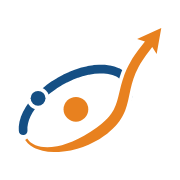
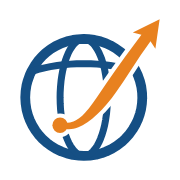
Site da ExpertBR: o logotipo aprovado é o "Rumo", não o "Órbita" (correção do Francis às 12h26, 20/11)
- Topo, rodapé, raiz (claro e escuro), favicon, apple-touch-icon, logo.png e og.png com o Rumo: globo de linhas azul,
  o ponto laranja no sul (o Brasil) e a fita laranja que corta o globo e termina em seta.
- Favicon (16 a 32 px): anel e meridiano em traço grosso (o paralelo sai), ponto e seta maiores. A versão pequena da
  rodada 2 (só o anel com a seta) perdia o globo e lembrava o símbolo do masculino.
- ferramentas/marca (rumo e rumo_favicon), imagens.py e a seção "Logotipo" do LEIAME atualizados.

Claude-Session: https://claude.ai/code/session_012MWRovwiVF1zj1fQCUZE4c

Changed region(s): [[0.0833, 0.1111, 0.9167, 0.9167]]

diff --git a/sites/expertbr/src/Pagina.jsx b/sites/expertbr/src/Pagina.jsx
@@ -17,10 +17,10 @@ function ComDestaque({ texto }) {
     return partes.map((parte, n) => (n % 2 ? <em key={n}>{parte}</em> : parte));
 }
 
-// Logotipo da ExpertBR ("Órbita", aprovado pelo Francis em 20/11/2026; desenho em ferramentas/marca). Uma imagem
+// Logotipo da ExpertBR ("Rumo", aprovado pelo Francis em 20/11/2026; desenho em ferramentas/marca). Uma imagem
 // para cada tema: o CSS mostra a do tema da página (.so-claro / .so-escuro), e sem JavaScript fica a do claro, como o
 // resto da página. O nome continua no texto alternativo. Tamanho pelo CSS (.marca-logo--<onde>).
-const LOGO = { largura: 155, altura: 36 }; // proporção do desenho (4,31 : 1)
+const LOGO = { largura: 150, altura: 36 }; // proporção do desenho (4,15 : 1)
 
 export function Marca({ onde = 'topo' }) {
     return (

diff --git a/sites/expertbr/ferramentas/marca/simbolos.py b/sites/expertbr/ferramentas/marca/simbolos.py
@@ -1,16 +1,15 @@
-"""Símbolo da ExpertBR, "Órbita" (aprovado pelo Francis em 20/11/2026, 11h45), desenhado em coordenadas numa
-caixa de 240 x 240.
+"""Símbolo da ExpertBR, "Rumo" (aprovado pelo Francis em 20/11/2026; confirmado com print às 12h26), desenhado em
+coordenadas numa caixa de 240 x 240.
 
 Mesma família do símbolo do ObraFácil: linha aberta, sem placa, duas cores, a fita laranja afinada nas pontas que
-sobe e termina em seta, e a linha azul interrompida onde a fita e os pontos passam.
+sobe e termina em seta, e as linhas azuis interrompidas onde a fita passa.
 
-- O centro laranja: a origem (o Brasil, o "BR").
-- A órbita inclinada: a família de apps em volta; o ponto azul é um app em órbita.
-- A frente da órbita escapa para cima em seta: o crescimento.
+- O globo de linhas azul: o mundo (os apps são para o mundo inteiro, em 29 idiomas).
+- O ponto laranja no hemisfério sul: o Brasil, de onde a marca sai (o "BR").
+- A fita laranja que sai do ponto, corta o globo e termina em seta: o rumo, o crescimento.
 
-Duas versões: `orbita` (a aprovada, para tamanhos a partir de uns 40 px) e `orbita_favicon` (16 a 32 px: o mesmo
-desenho com traço grosso, o ponto azul maior e separado da linha, a órbita aberta e a seta maior; em 32 px a versão
-anterior, com a órbita fechada e o ponto no meio, lembrava um olho).
+Duas versões: `rumo` (a aprovada, para tamanhos a partir de uns 40 px) e `rumo_favicon` (16 a 32 px: o mesmo desenho
+com traço grosso, só o meridiano dentro do globo, o ponto do Brasil maior e a seta maior; ver a função).
 """
 import math
 
@@ -162,53 +161,43 @@ class Desenho:
                 f'<g fill="{cores["acento"]}">{laranjas}</g>{circ}')
 
 
-CX, CY, ROT = 108, 134, math.radians(-30)
+def circulo(cx, cy, rx, ry, n=240):
+    """Pontos de uma volta fechada (círculo ou elipse em pé)."""
+    pts = [(cx + rx * math.cos(2 * math.pi * k / n), cy + ry * math.sin(2 * math.pi * k / n)) for k in range(n + 1)]
+    return pts + [pts[1]]
 
 
-def _frente_e_saida(rx, ry, fim):
-    """A frente da órbita (laranja): do extremo esquerdo, por baixo, até a direita; dali escapa para cima."""
-    a_ini, a_fim = 178, 76
-    frente = [_elipse(CX, CY, rx, ry, ROT, math.radians(a_ini - (a_ini - a_fim) * k / 90)) for k in range(91)]
-    p0 = frente[-1]
-    p1 = _elipse(CX, CY, rx, ry, ROT, math.radians(a_fim - 1))
-    tx, ty = p1[0] - p0[0], p1[1] - p0[1]
-    L = math.hypot(tx, ty)
-    tx, ty = tx / L, ty / L
-    saida = amostrar([(p0, (p0[0] + tx * 62, p0[1] + ty * 62), (fim[0] - 50, fim[1] + 62), fim)], 60)
-    return frente + saida[1:]
-
-
-def orbita():
-    """O símbolo aprovado (o mesmo desenho da prancha de 20/11, 11h45)."""
+def rumo():
+    """O símbolo aprovado (o mesmo desenho da prancha da rodada 2, opção 1)."""
     d = Desenho()
-    rx, ry = 94, 52
-    ini, fimz = math.radians(-166), math.radians(36)
-    arco = [_elipse(CX, CY, rx, ry, ROT, ini + (fimz - ini) * k / 160) for k in range(161)]
-    d.azul.append((arco, 14))
-    f = fita(_frente_e_saida(rx, ry, (220, 36)), 4, 18, 15, tm=0.45, seta=(38, 20))
+    cx, cy, R = 114, 128, 84
+    d.azul.append((circulo(cx, cy, R, R), 14))
+    d.azul.append((circulo(cx, cy, 34, R), 10))                       # o meridiano
+    par = amostrar([((cx - R * 0.87, cy - R * 0.45), (cx - 30, cy - R * 0.62),
+                     (cx + 30, cy - R * 0.62), (cx + R * 0.87, cy - R * 0.45))])
+    d.azul.append((par, 10))                                          # um paralelo no hemisfério norte
+    bx, by = cx - 34, cy + 40                                         # o Brasil: no sul, à esquerda do meridiano
+    f = fita(amostrar([((bx, by), (bx + 40, by + 10), (bx + 64, by - 44), (198, 50))]), 9, 19, 16, seta=(38, 20))
     d.laranja.append(f)
     d.cortes.append((f, 6))
-    sx, sy = _elipse(CX, CY, rx, ry, ROT, math.radians(-118))
-    d.cortes.append(('c', sx, sy, 18))
-    d.circulos.append((sx, sy, 12, 'linha'))
-    d.circulos.append((CX, CY, 20, 'acento'))
+    d.cortes.append(('c', bx, by, 11 + 6))
+    d.circulos.append((bx, by, 11, 'acento'))
     return d
 
 
-def orbita_favicon():
-    """Versão para 16 a 32 px (favicon). As mesmas peças, mais fortes: o ponto azul (o app) grande e solto na ponta
-    da órbita, a órbita aberta dos dois lados e a seta maior e mais para fora."""
+def rumo_favicon():
+    """Versão para 16 a 32 px (favicon). Em 32 px as três linhas finas do globo empastavam, e só o anel com a seta (a
+    versão pequena da rodada 2) perdia o globo e lembrava o símbolo do masculino. Aqui: o anel e o meridiano em traço
+    grosso (o paralelo sai, é o único corte), o ponto do Brasil maior e a seta maior, saindo do globo."""
     d = Desenho()
-    rx, ry = 92, 56
-    sat = -128
-    ini, fimz = math.radians(sat + 30), math.radians(30)
-    arco = [_elipse(CX, CY, rx, ry, ROT, ini + (fimz - ini) * k / 160) for k in range(161)]
-    d.azul.append((arco, 24))
-    f = fita(_frente_e_saida(rx, ry, (222, 30)), 8, 28, 26, tm=0.45, seta=(74, 44))
+    cx, cy, R, rxm = 108, 134, 90, 42
+    d.azul.append((circulo(cx, cy, R, R), 20))
+    d.azul.append((circulo(cx, cy, rxm, R), 14))
+    bx, by = cx - rxm, cy + 42
+    f = fita(amostrar([((bx, by), (bx + 44, by + 8), (bx + 70, by - 50), (210, 40))]), 14.4, 24, 22.8, tm=0.45,
+             seta=(66, 40))
     d.laranja.append(f)
     d.cortes.append((f, 9))
-    sx, sy = _elipse(CX, CY, rx, ry, ROT, math.radians(sat))
-    d.cortes.append(('c', sx, sy, 30))
-    d.circulos.append((sx, sy, 20, 'linha'))
-    d.circulos.append((CX, CY, 25, 'acento'))
+    d.cortes.append(('c', bx, by, 19 + 9))
+    d.circulos.append((bx, by, 19, 'acento'))
     return d

diff --git a/sites/expertbr/ferramentas/marca/desenhar.py b/sites/expertbr/ferramentas/marca/desenhar.py
@@ -1,4 +1,5 @@
-"""Desenha os arquivos do logotipo da ExpertBR ("Órbita", aprovado pelo Francis em 20/11/2026, 11h45).
+"""Desenha os arquivos do logotipo da ExpertBR ("Rumo", aprovado pelo Francis em 20/11/2026, confirmado com print às
+12h26).
 
 Grava em sites/expertbr/public (os arquivos são versionados; só rodar de novo se o desenho mudar):
     logo/expertbr.svg            logotipo horizontal para fundo claro (símbolo + "Expert" negrito azul + "BR" laranja)
@@ -22,7 +23,7 @@ import sys
 
 AQUI = os.path.dirname(os.path.abspath(__file__))
 sys.path.insert(0, AQUI)
-from simbolos import _n, orbita, orbita_favicon  # noqa: E402
+from simbolos import _n, rumo, rumo_favicon  # noqa: E402
 from texto import Fonte  # noqa: E402
 
 PUBLICO = os.path.join(AQUI, '..', '..', 'public')
@@ -47,7 +48,7 @@ def simbolo(desenho, cores, uid, margem=6, titulo='ExpertBR'):
 def horizontal(cores, uid):
     """Símbolo à esquerda e o nome à direita, nas proporções do logotipo do ObraFácil ("Obra" negrito, "Fácil" normal)."""
     negrito, normal = Fonte('montserrat-700'), Fonte('montserrat-400')
-    desenho = orbita()
+    desenho = rumo()
     x, y, w, h = desenho.caixa()
     H = 100.0                       # altura do símbolo no desenho
     esc = H / h
@@ -67,13 +68,12 @@ def horizontal(cores, uid):
 
 def favicon():
     """Linha azul-marinho; com o navegador em modo escuro, azul-claro (a aba escura apagaria o azul-marinho)."""
-    d = orbita_favicon()
+    d = rumo_favicon()
     x, y, w, h = d.caixa()
     lado = max(w, h) + 4
     vx, vy = x + w / 2 - lado / 2, y + h / 2 - lado / 2
     corpo = d.svg(CLARO, 'f').replace(f'stroke="{AZUL}"', f'class="l" stroke="{AZUL}"', 1)
-    corpo = corpo.replace(f'fill="{AZUL}"', f'class="p" fill="{AZUL}"')
-    estilo = f'<style>@media (prefers-color-scheme: dark){{.l{{stroke:{AZUL_CLARO}}}.p{{fill:{AZUL_CLARO}}}}}</style>'
+    estilo = f'<style>@media (prefers-color-scheme: dark){{.l{{stroke:{AZUL_CLARO}}}}}</style>'
     return (f'<svg xmlns="http://www.w3.org/2000/svg" viewBox="{_n(vx)} {_n(vy)} {_n(lado)} {_n(lado)}">'
             f'{estilo}{corpo}</svg>\n')
 
@@ -91,8 +91,8 @@ def principal():
     escuro, _ = horizontal(ESCURO, 'me')
     gravar('logo/expertbr.svg', claro)
     gravar('logo/expertbr-escuro.svg', escuro)
-    gravar('logo/simbolo.svg', simbolo(orbita(), CLARO, 'sc'))
-    gravar('logo/simbolo-escuro.svg', simbolo(orbita(), ESCURO, 'se'))
+    gravar('logo/simbolo.svg', simbolo(rumo(), CLARO, 'sc'))
+    gravar('logo/simbolo-escuro.svg', simbolo(rumo(), ESCURO, 'se'))
     gravar('favicon.svg', favicon())
     print(f'proporção do logotipo horizontal: {tam[0] / tam[1]:.4f} (largura / altura)')
 

diff --git a/sites/expertbr/ferramentas/imagens.py b/sites/expertbr/ferramentas/imagens.py
@@ -5,7 +5,7 @@ Como usar (na raiz do repositório, depois do npm ci):
     python3 sites/expertbr/ferramentas/imagens.py   (Linux/Mac)
 Precisa do Python com Pillow e Playwright (python -m playwright install chromium).
 
-O logotipo ("Órbita", aprovado pelo Francis em 20/11/2026, 11h45) nasce em ferramentas/marca/desenhar.py, que grava
+O logotipo ("Rumo", aprovado pelo Francis em 20/11/2026, confirmado às 12h26) nasce em ferramentas/marca/desenhar.py, que grava
 os SVG (public/logo/*.svg e public/favicon.svg). Este script só fotografa esses SVG para os PNG:
     apple-touch-icon.png   o símbolo sobre fundo branco, 180 x 180 (o iPhone arredonda os cantos sozinho)
     logo.png               o logotipo horizontal sobre fundo branco, 1200 x 300: logotipo dos dados estruturados

diff --git a/sites/expertbr/LEIAME.md b/sites/expertbr/LEIAME.md
@@ -6,8 +6,8 @@ A casa da marca ExpertBR, o estúdio dos aplicativos: apresenta a ExpertBR em po
 
 **A empresa ainda não existe formalmente.** O site não tem CNPJ, razão social, endereço, telefone, número de
 pessoas, clientes, prêmios nem nenhum dado inventado, e os dados estruturados também não (o build confere:
-`ferramentas/conferir.mjs`, `CAMPOS_PROIBIDOS`). O logotipo é o "Órbita", aprovado pelo Francis em 20/11/2026, 11h45
-(ver "Logotipo").
+`ferramentas/conferir.mjs`, `CAMPOS_PROIBIDOS`). O logotipo é o "Rumo", aprovado pelo Francis em 20/11/2026 (confirmado com print às
+12h26; ver "Logotipo").
 
 Publicação na Hostinger e caminho de volta: **`PUBLICAR.md`** (nesta pasta).
 
@@ -79,10 +79,11 @@ cima dos títulos, sem cartões iguais de ícone e texto.
 
 ## Logotipo
 
-"Órbita" (aprovado pelo Francis em 20/11/2026, 11h45): o centro laranja (a origem, o Brasil), uma órbita inclinada
-em volta com um ponto azul (um app) e a frente da órbita escapando para cima em seta (o crescimento). Linha aberta,
-azul-marinho `#154F84` e laranja `#E8811F` (os do logotipo do ObraFácil), letra Montserrat convertida em contorno:
-"Expert" em negrito azul e "BR" normal laranja. Mesma família do logotipo do ObraFácil.
+"Rumo" (aprovado pelo Francis em 20/11/2026; confirmado com print às 12h26, depois de um engano de leitura do
+número que chegou a aplicar o "Órbita" nesta branch): um globo de linhas azul (o mundo), um ponto laranja no
+hemisfério sul (o Brasil, o "BR") e, saindo dele, a fita laranja que corta o globo e termina em seta (o rumo, o
+crescimento). Linha aberta, azul-marinho `#154F84` e laranja `#E8811F` (os do logotipo do ObraFácil), letra Montserrat
+convertida em contorno: "Expert" em negrito azul e "BR" normal laranja. Mesma família do logotipo do ObraFácil.
 
 | Arquivo (em `public/`) | Uso |
 | --- | --- |
@@ -95,9 +96,11 @@ azul-marinho `#154F84` e laranja `#E8811F` (os do logotipo do ObraFácil), letra
   "ExpertBR" e o link com "Página inicial da ExpertBR" (`nav.inicio`). Altura: 36 px no topo do computador, **28 px
   no celular** (até 760 px; o botão de idioma e o do tema cabem na linha, conferido em 390 px nos 29 idiomas), 40 px
   no rodapé e 56 px na raiz.
-- **Favicon:** em 32 px o símbolo inteiro (órbita fechada com o ponto no meio) lembrava um olho. A versão pequena
-  tem as mesmas peças, mais fortes: o ponto azul (o app) grande e solto na ponta da órbita, a órbita aberta dos dois
-  lados e a seta maior e mais para fora (`orbita_favicon` em `ferramentas/marca/simbolos.py`).
+- **Favicon (16 a 32 px):** o globo inteiro tem três linhas finas que empastam em 32 px, e só o anel com a seta (a
+  versão pequena da rodada 2) perdia o globo e lembrava o símbolo do masculino (♂). A versão pequena guarda o anel e o
+  meridiano em traço grosso (o paralelo sai: é o único corte), o ponto do Brasil maior e a seta maior
+  (`rumo_favicon` em `ferramentas/marca/simbolos.py`). Dos 40 px para cima (ícone do iPhone, topo, rodapé) vale o
+  desenho inteiro.
 - Desenho: `ferramentas/marca/desenhar.py` (com `simbolos.py` e `texto.py`) grava os SVG; o que fazer para rodar
   está no começo do arquivo (precisa da Montserrat numa pasta fora do repositório). Só rodar se o desenho mudar.
 
